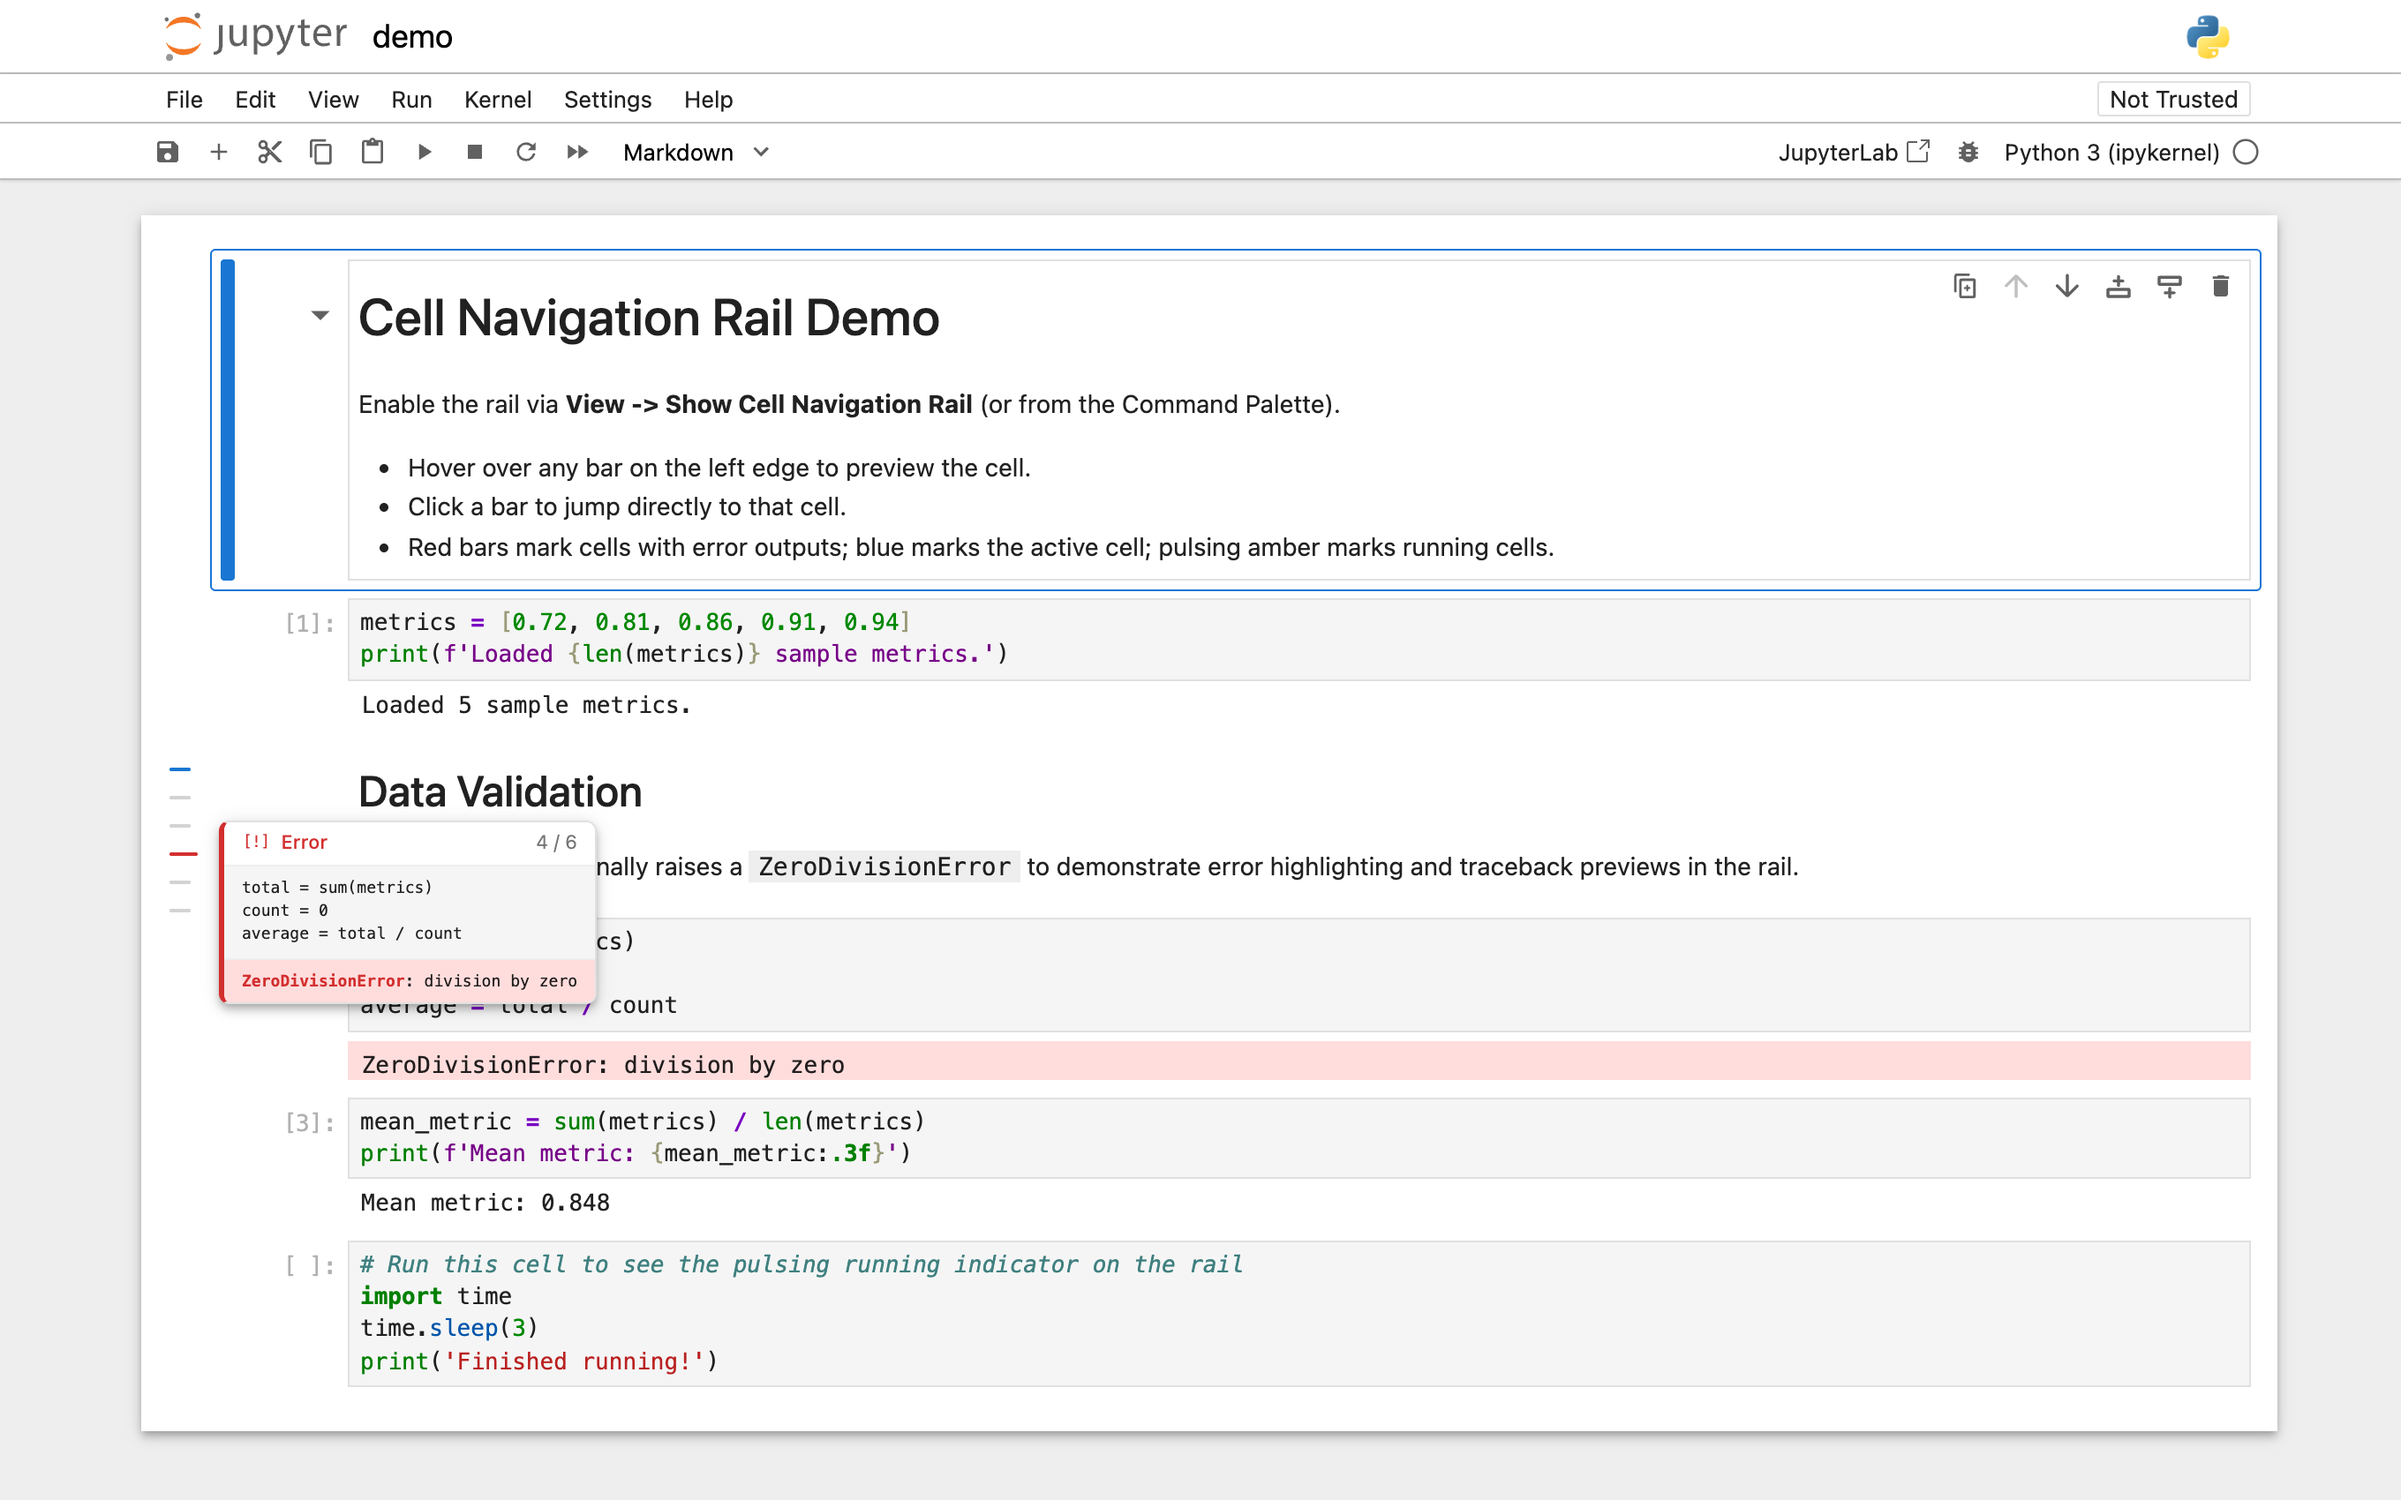
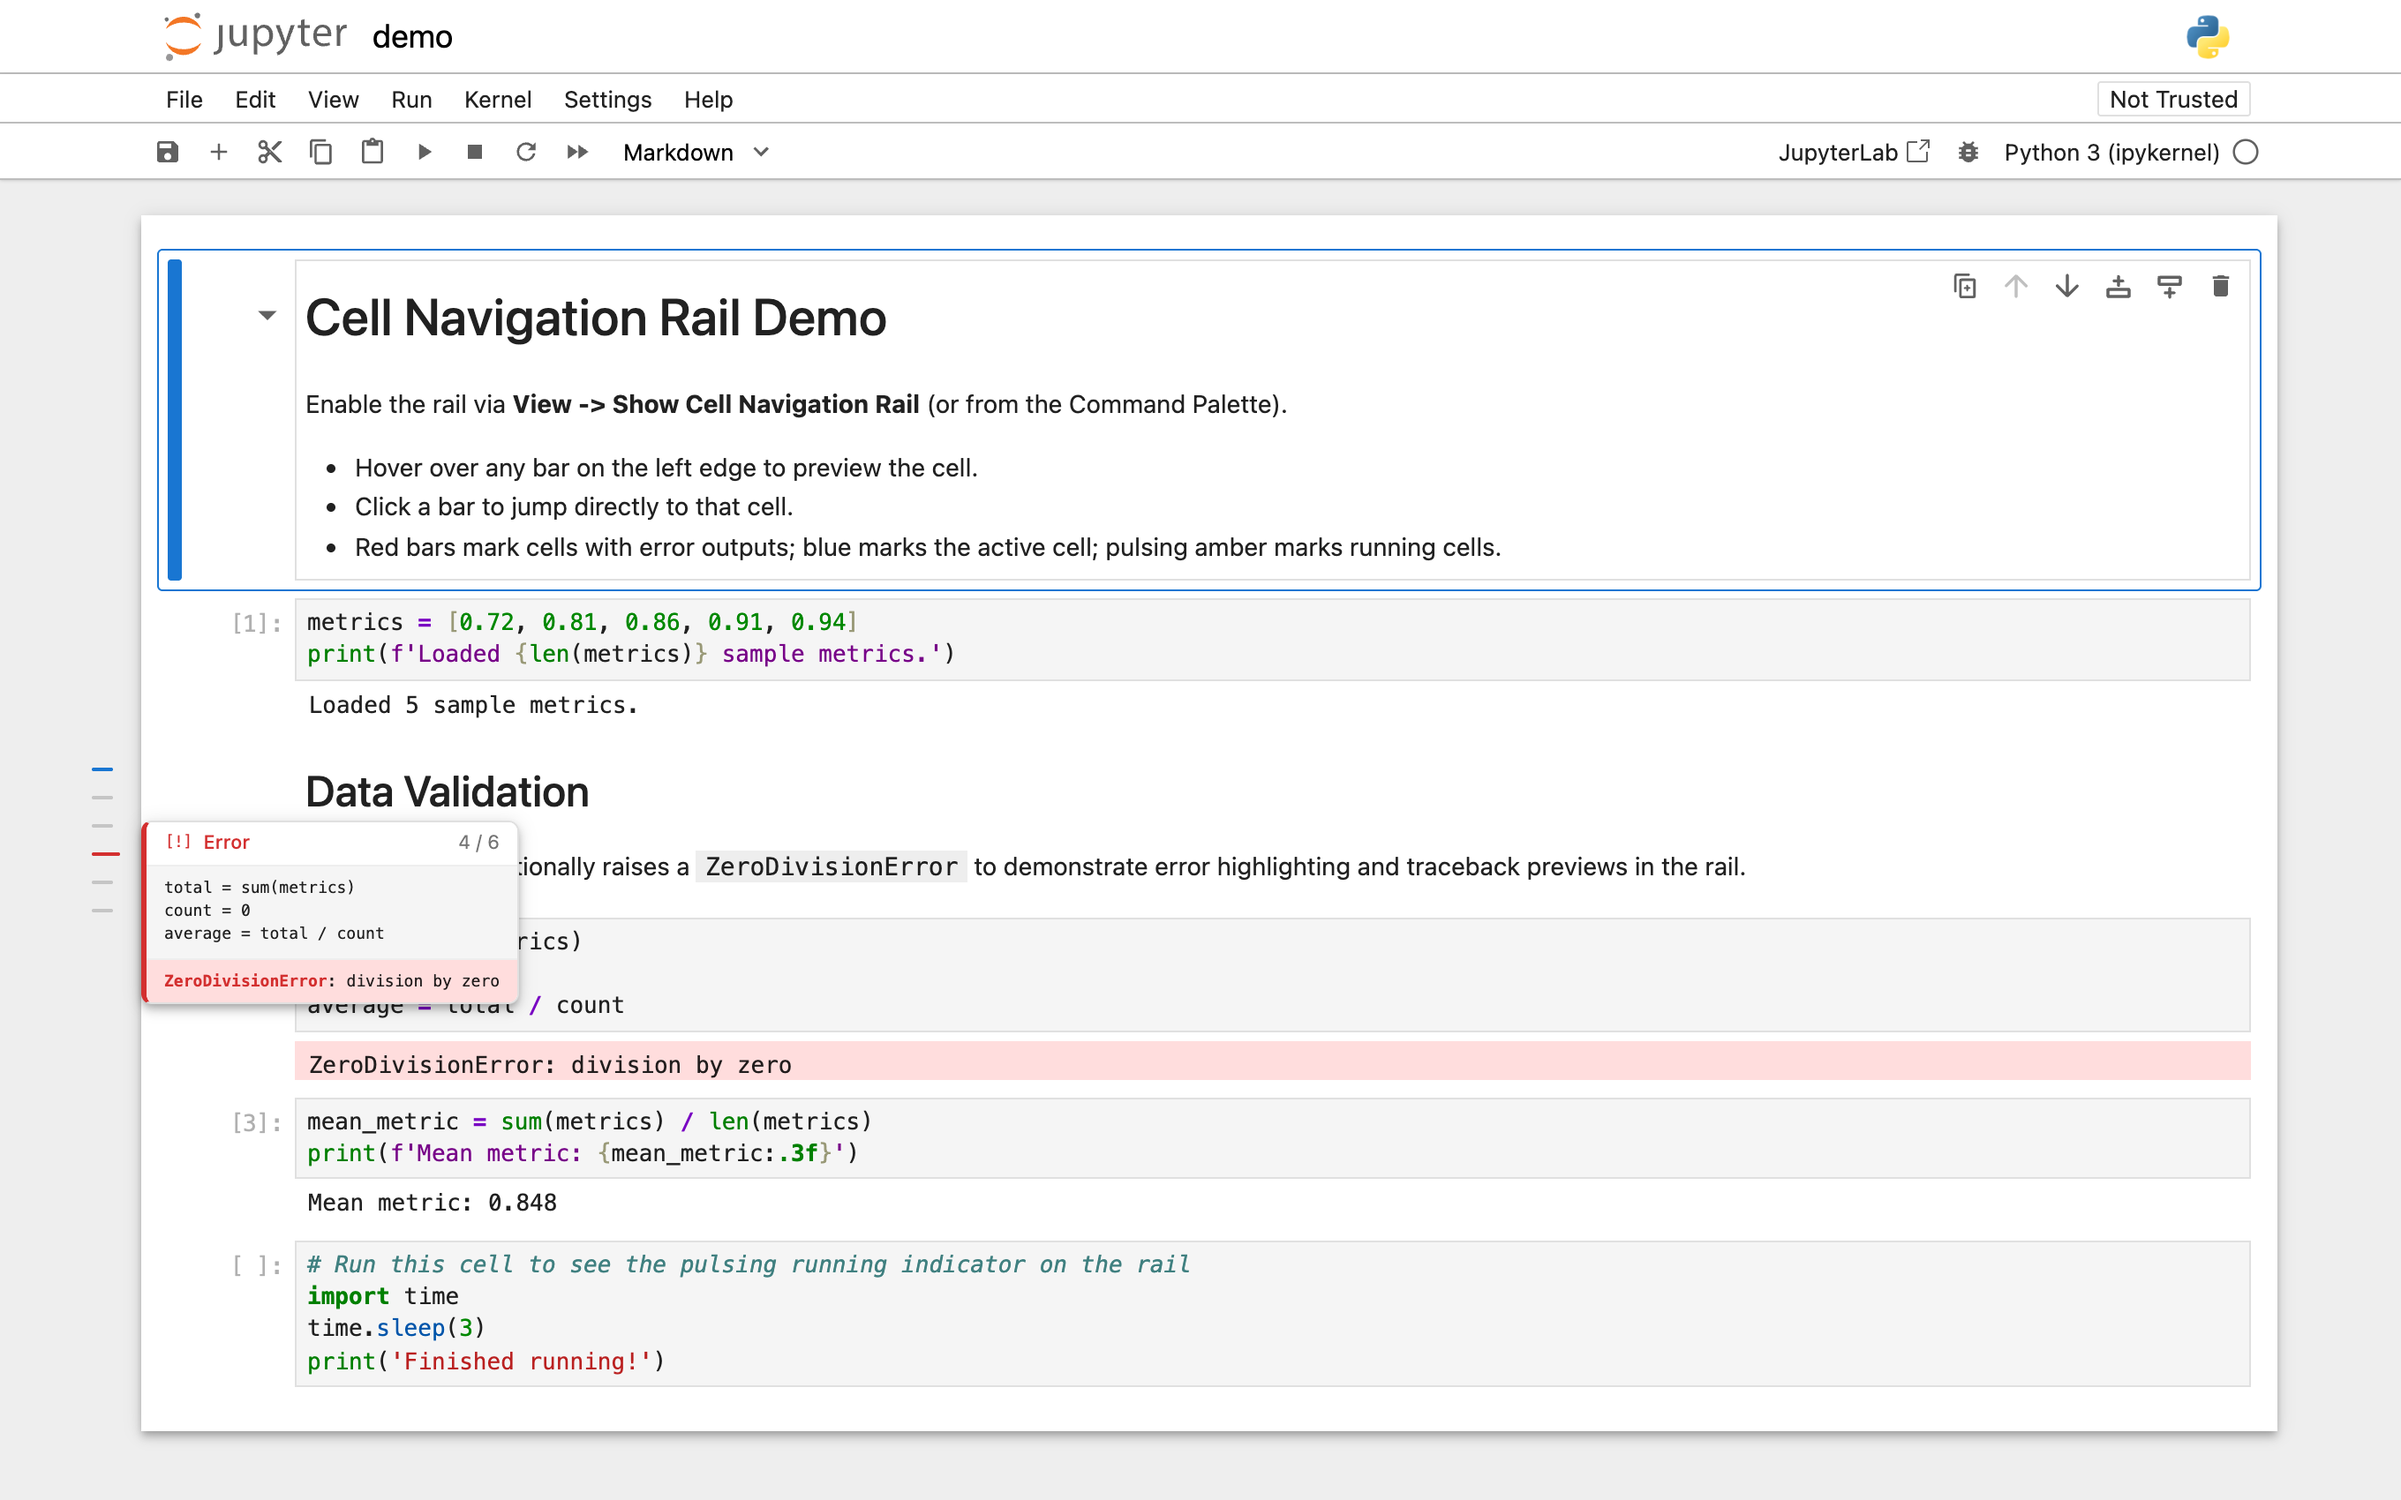
Float rail in Notebook 7 outer margin without shifting cells (v0.1.3)

diff --git a/src/index.ts b/src/index.ts
@@ -24,10 +24,14 @@ const RAIL_CLASS = 'jp-Notebook-navigationRail';
 const TRACK_CLASS = `${RAIL_CLASS}-track`;
 const LINE_CLASS = `${RAIL_CLASS}-line`;
 const TIP_CLASS = `${RAIL_CLASS}-tooltip`;
+const INSET_CLASS = 'jp-mod-navigationRail-inset';
 const ACTIVE_CLASS = 'jp-mod-active';
 const ERROR_CLASS = 'jp-mod-error';
 const RUNNING_CLASS = 'jp-mod-running';
 
+const MIN_EDGE_OFFSET = 12;
+const OUTER_GUTTER_GAP = 30;
+const MIN_OUTER_GUTTER = 40;
 const LINE_SPACING = 16;
 const MAX_TRACK_HEIGHT = 360;
 const MIN_HIT_HEIGHT = 4;
@@ -134,6 +138,7 @@ export class NotebookNavigationRail extends Widget {
   private _cellListeners: Map<string, () => void> = new Map();
   private _hoveredCellId: string | null = null;
   private _connectedModel: Notebook['model'] = null;
+  private _resizeObserver: ResizeObserver | null = null;
   private _onDismissTooltip = () => this._hideTooltip();
 
   constructor(notebook: Notebook, translator?: ITranslator) {
@@ -166,6 +171,8 @@ export class NotebookNavigationRail extends Widget {
     if (this.isDisposed) {
       return;
     }
+    this._stopResizeObserver();
+    this.notebook.removeClass(INSET_CLASS);
     this._clearCellListeners();
     window.removeEventListener('blur', this._onDismissTooltip);
     this.notebook.outerNode?.removeEventListener(
@@ -184,23 +191,84 @@ export class NotebookNavigationRail extends Widget {
   setHidden(hidden: boolean): void {
     if (hidden) {
       this._hideTooltip();
+      this.notebook.removeClass(INSET_CLASS);
     }
     super.setHidden(hidden);
+    if (!hidden) {
+      this._updateLayout();
+    }
   }
 
   protected onAfterAttach(msg: Message): void {
     super.onAfterAttach(msg);
+    this._startResizeObserver();
     this._updateLines();
+    this._updateLayout();
+  }
+
+  protected onAfterShow(msg: Message): void {
+    super.onAfterShow(msg);
+    this._updateLayout();
   }
 
   protected onBeforeHide(msg: Message): void {
     this._hideTooltip();
+    this.notebook.removeClass(INSET_CLASS);
     super.onBeforeHide(msg);
   }
 
   protected onBeforeDetach(msg: Message): void {
     this._hideTooltip();
+    this._stopResizeObserver();
+    this.notebook.removeClass(INSET_CLASS);
     super.onBeforeDetach(msg);
+  }
+
+  private _startResizeObserver(): void {
+    if (this._resizeObserver || typeof ResizeObserver === 'undefined') {
+      return;
+    }
+    this._resizeObserver = new ResizeObserver(() => this._updateLayout());
+    this._resizeObserver.observe(this.notebook.node);
+    const inner = this.notebook.node.querySelector<HTMLElement>(
+      '.jp-WindowedPanel-inner'
+    );
+    if (inner) {
+      this._resizeObserver.observe(inner);
+    }
+  }
+
+  private _stopResizeObserver(): void {
+    this._resizeObserver?.disconnect();
+    this._resizeObserver = null;
+  }
+
+  private _updateLayout(): void {
+    if (this.isDisposed || this.isHidden || !this.isAttached) {
+      this.notebook.removeClass(INSET_CLASS);
+      return;
+    }
+    const nbRect = this.notebook.node.getBoundingClientRect();
+    if (nbRect.width <= 0) {
+      return;
+    }
+    const inner = this.notebook.node.querySelector<HTMLElement>(
+      '.jp-WindowedPanel-inner'
+    );
+    const gutter = inner
+      ? Math.max(0, inner.getBoundingClientRect().left - nbRect.left)
+      : 0;
+
+    if (gutter >= MIN_OUTER_GUTTER) {
+      this.notebook.removeClass(INSET_CLASS);
+      this.node.style.left = `${Math.max(
+        MIN_EDGE_OFFSET,
+        Math.round(gutter - OUTER_GUTTER_GAP)
+      )}px`;
+    } else {
+      this.notebook.addClass(INSET_CLASS);
+      this.node.style.left = `${Math.round(gutter) + MIN_EDGE_OFFSET}px`;
+    }
   }
 
   private _connectModelCells(): void {

diff --git a/src/__tests__/navigationrail.spec.ts b/src/__tests__/navigationrail.spec.ts
@@ -205,6 +205,32 @@ describe('NotebookNavigationRail', () => {
     );
     expect(lines).toHaveLength(4);
   });
+
+  it('should float in the outer gutter without shifting cells when room is available', () => {
+    const inner = notebook.node.querySelector<HTMLElement>(
+      '.jp-WindowedPanel-inner'
+    )!;
+    jest.spyOn(notebook.node, 'getBoundingClientRect').mockReturnValue({
+      left: 0,
+      width: 1440
+    } as DOMRect);
+    const innerRect = jest
+      .spyOn(inner, 'getBoundingClientRect')
+      .mockReturnValue({ left: 120, width: 1200 } as DOMRect);
+
+    rail.setHidden(false);
+    expect(notebook.hasClass('jp-mod-navigationRail-inset')).toBe(false);
+    expect(rail.node.style.left).toBe('90px');
+
+    innerRect.mockReturnValue({ left: 0, width: 1000 } as DOMRect);
+    rail.setHidden(true);
+    rail.setHidden(false);
+    expect(notebook.hasClass('jp-mod-navigationRail-inset')).toBe(true);
+    expect(rail.node.style.left).toBe('12px');
+
+    rail.setHidden(true);
+    expect(notebook.hasClass('jp-mod-navigationRail-inset')).toBe(false);
+  });
 });
 
 describe('cell-navigation-rail plugin', () => {

diff --git a/style/base.css b/style/base.css
@@ -6,15 +6,18 @@
   position: relative;
 }
 
-.jp-Notebook.jp-mod-navigationRail .jp-WindowedPanel-viewport {
-  padding-left: calc(var(--jp-notebook-padding) + 30px);
+/* Only reserve inner padding when there is no outer page margin (e.g.
+   JupyterLab, Notebook 7 full-width, or narrow viewports). */
+.jp-Notebook.jp-mod-navigationRail.jp-mod-navigationRail-inset
+  .jp-WindowedPanel-viewport {
+  padding-left: calc(var(--jp-notebook-padding) + 26px);
 }
 
 .jp-Notebook-navigationRail {
   position: absolute;
   top: 0;
   bottom: 0;
-  left: 14px;
+  left: 12px;
   width: 20px;
   z-index: 10;
   display: flex;
@@ -22,14 +25,6 @@
   justify-content: center;
   pointer-events: none;
   box-sizing: border-box;
-}
-
-/* In Notebook 7 centered mode, keep the rail aligned inside the notebook page
-   card rather than stranded against the outer browser window edge. */
-body[data-notebook='notebooks']
-  .jp-NotebookPanel:not(.jp-mod-fullwidth)
-  .jp-Notebook-navigationRail {
-  left: max(14px, (100% - var(--jp-notebook-max-width, 1200px)) * 0.5 + 14px);
 }
 
 .jp-Notebook-navigationRail-track {
